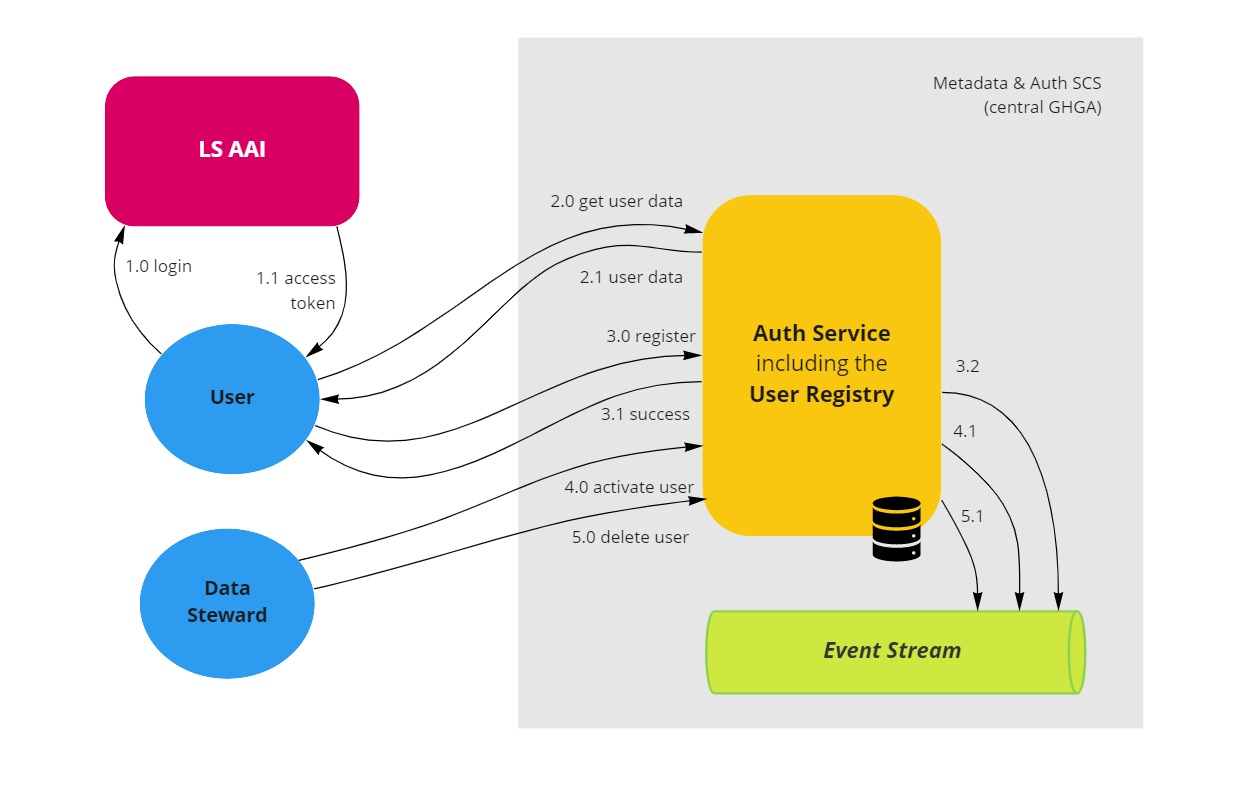
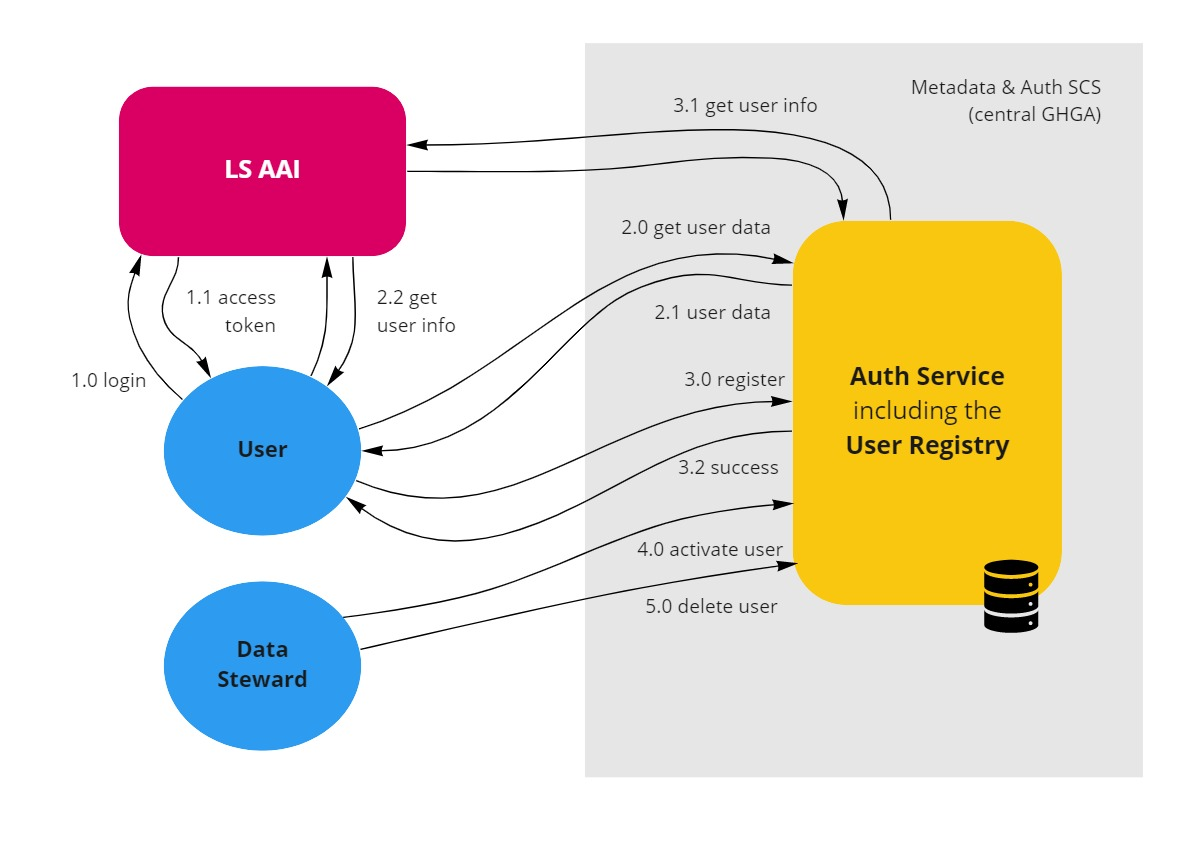
Extend scoper for morning star epic

diff --git a/15-morning-sun-star/technical_specification.md b/15-morning-sun-star/technical_specification.md
@@ -1,11 +1,10 @@
 # Basic User Registry (Morning Sun Star)
 
-**Epic Type:** Backend Implementation Epic
+**Epic Type:** Implementation Epic
 
 ## Scope
 
 Implement the basic user registry backend as part of the auth service.
-
 ## User Journeys
 
 This epic covers the following user journeys:
@@ -18,25 +17,29 @@ This epic covers the following user journeys:
 
 (1.1) As result of the OIDC flow, LS Login sends an access token back to the SPA which keeps it for the rest of the user session.
 
-(2.0) The SPA sends a request to the "get user data" endpoint in order to get the basic user information and to check whether the user is already registered. As part of the request, it also submits the user id from the LS Login access token. 
+(2.0) The SPA sends a request to the "get user data" endpoint in order to get the basic user information and to check whether the user is already registered. As part of the request, it also submits the user id from the LS Login access token.
 
-(2.1) The Auth Service responds by sending the user data back to the SPA if a user with the given LS Login user ID is found in the user registry database. In this case the user has been already registered and the user journey ends here. If the user is not found in the database, the Auth Service responds with a "user not found" error message. In this case, the user still needs to register with GHGA, and the SPA aks the user to register themselves.
+(2.1) The Auth Service responds by sending the user data back to the SPA if a user with the given LS Login user ID is found in the user registry database. In this case the user has been already registered and the user journey ends here.
 
-(3.0) The user fills the registration form in the SPA which is pre-populated with the data contained in the access token. This data is then submitted to the "register user" endpoint of the Auth Service. The Auth Service checks the validity of the data using the internal token that is provided by the auth adapter.
+Additionally, the auth service should request the user information from the UserInfo endpoint of LS Login and verify that the information is identical with the information that has been stored in the internal database. This is similar to (3.1). If there is a mismatch, the auth service should set the user status to "deactivated" and send a notification to a data steward. In this case, the SPA should inform the user that the account is waiting for reactivation.
 
-(3.1) If the data is valid, the user is saved in the database, and internal ID is created and the user data sent back to the SPA. Also, an event is published to the event stream that triggers the notification of a data steward about the newly registered user.
+(2.2) If the user is not found in the database, the Auth Service responds with a "user not found" error message. In this case, the user still needs to register with GHGA, the SPA gests the user from the UserInfo endpoint of LS Login using the access token it kept in (1.1). It then asks the user to register with GHGA.
+
+(3.0) The user fills the registration form in the SPA (see below) which is pre-populated with the data the SPA has retrieved in (2.2). This data is then submitted to the "register user" endpoint of the Auth Service.
+
+(3.1) The Auth Service requests the user information from the UserInfo endpoint of LS AAI. This should be done by the internal auth adapter when it detects that the "register user" endpoint has been hit, and the user information should then be made available in the internal access token. The auth service then checks whether the information provided by the user matches the information provided by LS AAI in the fields that origin from the OIDC provider (see below). If this check passes and the data is valid, the user is saved in the database, an internal ID is created and  sent back to the SPA as part of the user data. Also a data steward is notified about the newly registered user.
 
 ### Data steward activates user
 
-(4.0) Upon receipt of the notification that a user has been registered, the data steward also logs in to the data portal. After checking the user registration, the data steward sets the status of the user to "activated" (or to "deactivated" if the registration does not seem to be legit). This is done via the SPA using the "modify user data" endpoint of the Auth Service.
+(4.0) Upon receipt of the notification that a user has been registered, the data steward also logs in to the data portal and navigates to the user management form (see below) and enters the internal user ID to retrieve the user information. After checking the user registration, the data steward sets the status of the user to "activated" (or to "deactivated" if the registration does not seem to be legit). This is done via the SPA using the "modify user data" endpoint of the Auth Service.
 
-(4.1) An event is published to the event stream that triggers the notification of the user, letting them known that they have been activated.
+(4.1) A notification is sent to the user, letting the known that they have been activated.
 
 ### Data steward deletes user
 
-(5.0) Users can request the deletion of their user data. Such requests are handled via the data steward. This is done via the SPA using the "delete user" endpoint of the Auth Service.
+(5.0) Users can request the deletion of their user data. Such requests are handled via the data steward. The data steward logs in to the data portal and navigates to the user management form (see below) and enters the internal user ID to retrieve the user information. After checking that the correct user has been selected and confirming this using a checkbox, the data steward hits the user deletion button. The user is then deleted via the SPA using the "delete user" endpoint of the Auth Service.
 
-(5.1) An event is published to the event stream that triggers the notification of the user, letting them known that their data has been deleted as requested.
+(5.1) A notification is sent to the user, letting them known that their data has been deleted as requested.
 
 ## API Definitions
 
@@ -44,19 +47,48 @@ The definitions are hosted here:
 
 ### RESTful/Synchronous
 
-The RESTful service API are described using OpenAPI:
+The RESTful service API is described using OpenAPI:
 
 **User Registry Service**: [OpenAPI YAML](api_definitions/rest/user_registry.yaml), [Swagger UI](https://editor.swagger.io/?url=https://raw.githubusercontent.com/ghga-de/epic-docs/main/15-morning-sun-star/api_definitions/rest/user_registry.yaml)
 
 ### Payload Schemas for Asynchronous Topics
 
-The payloads for asynchronous topics are described using JSON schemas
+The notifications mentioned in the user journey and the payloads for asynchronous topics will be defined and implemented in a different epic.
 
-(TBD!)
+## Additional Implementation Details
 
-- \<my_example_event_type\>: [JSON Schema](https://raw.githubusercontent.com/ghga-de/ghga-message-schemas/main/ghga_message_schemas/json_schemas/drs_object_registered.json)
+### User data
 
-(The JSON schemas should be defined in the following repository: https://github.com/ghga-de/ghga-message-schemas. Please insert only links from the main branch.)
+Note that a part of the use data originates at the external identity providers (LS Login or home organization). This part of the user data is also stored internally, but the user information from the external identity providers delivered via the UserInfo OIDC endpoint is considered the "source of truth" for this part of the user data and may not be altered by the user on our side, but must be changed at the side of the identity provider if needed. Note that LS Login allows selecting a preferred e-mail address that is also verified. The consistency of the external and internal user information is checked when a user registers and logs in. If there is a mismatch, the user registration will failed or an already registered user will be deactivated until a data steward confirms the change.
+
+This part of the user data that is kept in sync with the external identity provider consists of the following fields:
+
+- subject (LS Login ID)
+- issuer (currently only LS AAI)
+- name (full name, see below)
+- email
+- affiliation
+- orcid
+
+The name can also be stored in two separate components (first name and last name or given name and family name) if these can be reliably retrieved via OIDC - currently only the full name (display name) is documented for LS Login. Also note that the semantics of these name parts can be different for international users coming from different cultures.
+
+The part of the user data that is not provided externally and must be provided in the registration process consists of the following fields:
+
+- academic title
+- reason for registration
+- research topic(s)
+
+### User registration form
+
+The user registration form should roughly look like this:
+
+![User Registration Form](./images/registration_form.jpg)
+
+### User management form
+
+The user management form should roughly look like this:
+
+![User Management Form](./images/management_form.jpg)
 
 ## Time Estimation
 
